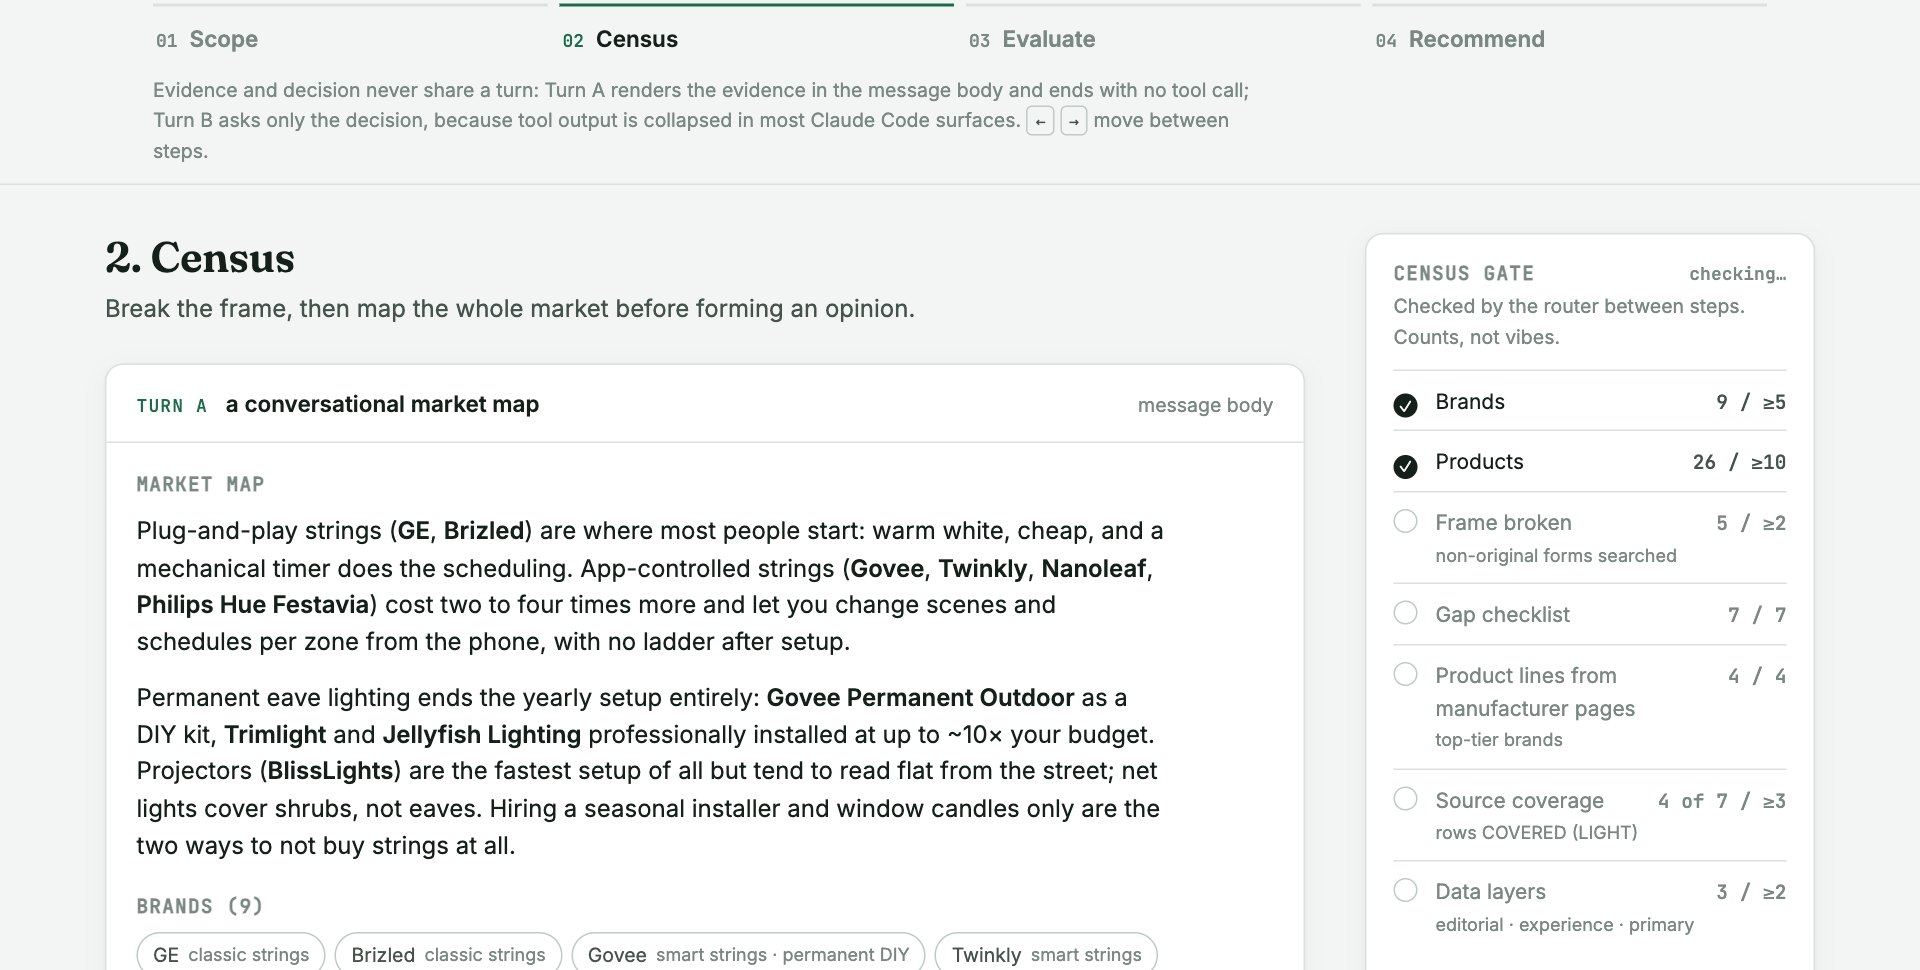
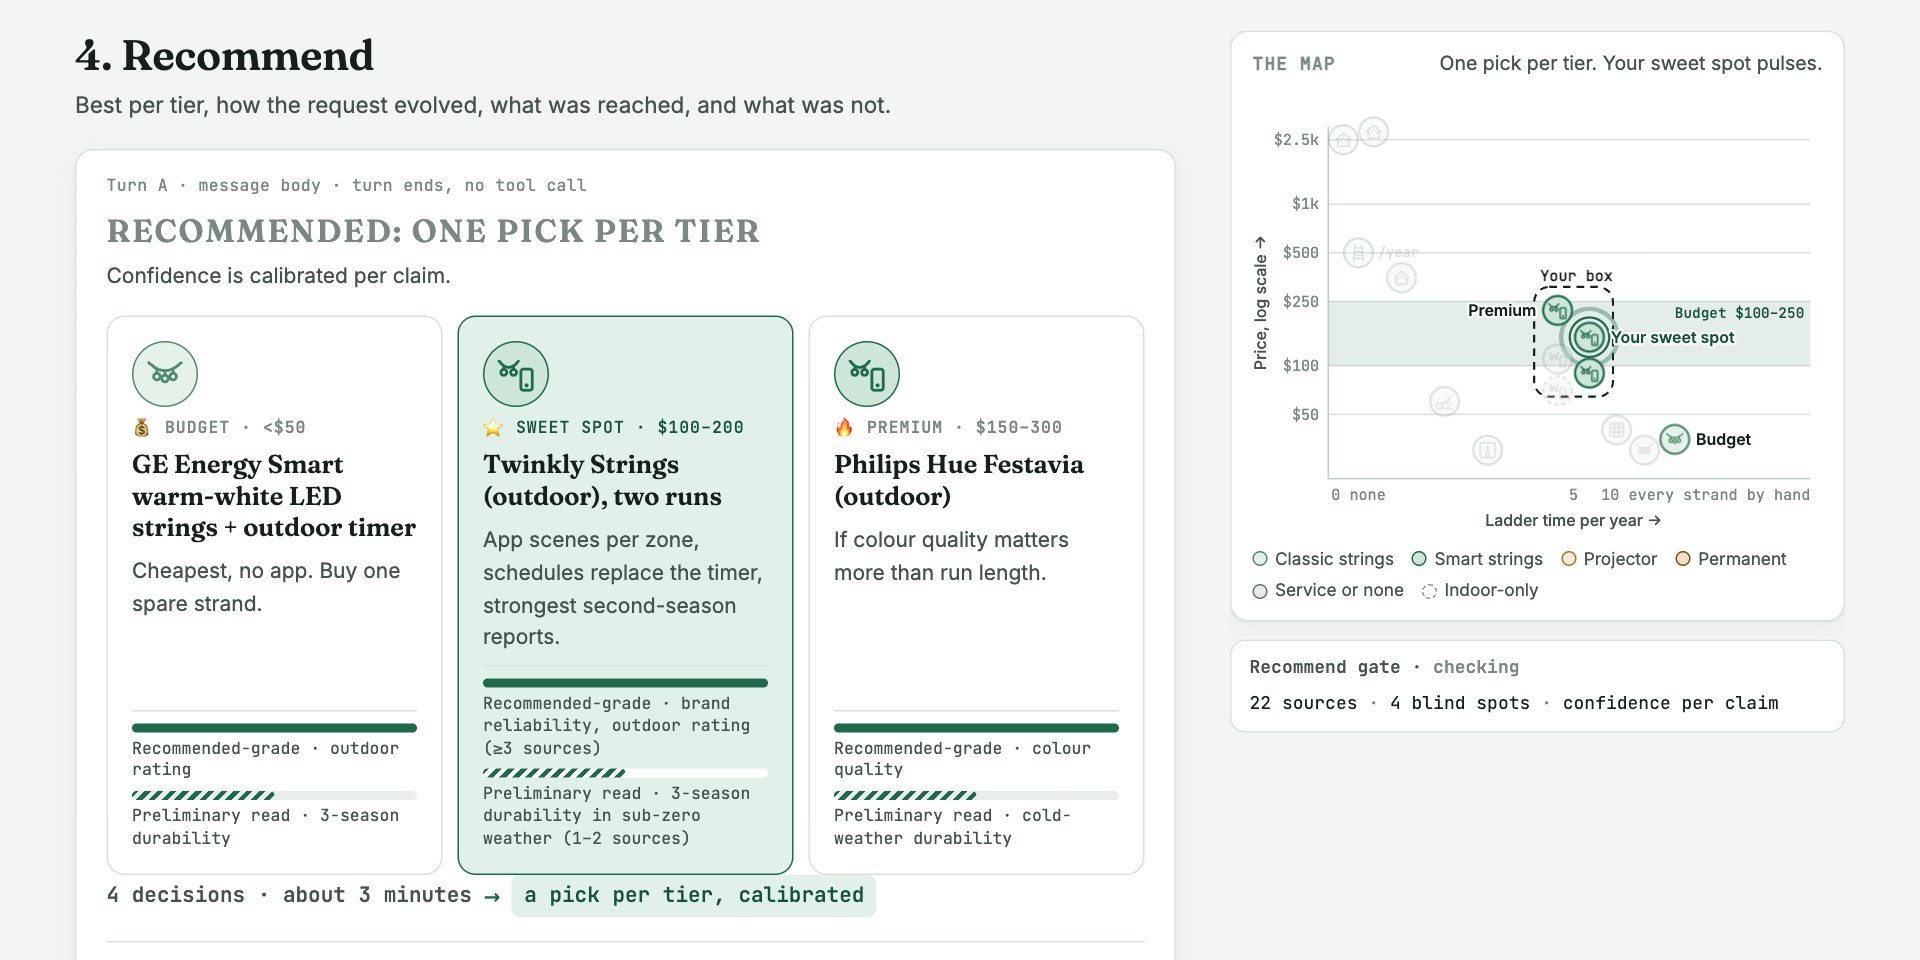
WiseShopper card: screenshot and bullet follow the rebuilt market-map demo

diff --git a/shared/content.js b/shared/content.js
@@ -70,7 +70,7 @@ export const PROJECTS = [
     details: [
       'Gates are mechanical: brands ≥ 8, products ≥ 20, ≥ 2 independent sources per shortlisted product, ≥ 2 named blind spots',
       'Evidence and decision never share a turn: the evidence is rendered first, the decision asked next',
-      'Interactive demo replays a full run; flip the "thin census" switch to watch a gate fail and the recommendation downgrade itself',
+      'Interactive demo: a market map (price × yearly effort) that narrows with every answer until one sweet spot is left; flip the "thin census" switch to watch a gate fail',
     ],
     tech: ['Claude Code', 'Markdown skills', 'WebSearch + Playwright MCP'],
     year: '2026', role: 'Designer & sole builder',
